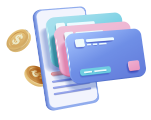
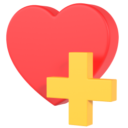
comit sabado

diff --git a/src/public/DetalleTecnico.js b/src/public/DetalleTecnico.js
@@ -14,6 +14,9 @@ import AsyncStorage from '@react-native-async-storage/async-storage';
 import styles from '../styles/styles';
 import { AntDesign } from '@expo/vector-icons'; 
 import baseColor from '../private/api/baseColor';
+import eliminarFavT from '../helper/favoritos/eliminarFavT';
+import checkFavT from '../helper/favoritos/checkFavT';
+import agregarFavT from '../helper/favoritos/agregarFavT';
 
 const DetalleTecnico = (props) => {
   const navigation =useNavigation();
@@ -21,9 +24,12 @@ const DetalleTecnico = (props) => {
 
   const [ tecnico, setTecnico ] = useState([]);
   const [ loading, setLoading ] = useState(true);
-  const [ idUser, setIdUser ] = useState(null)
+  const [ idUser, setIdUser ] = useState(null);
 
   const idTecnico = props.route.params.idTecnico;
+  const idCarrito = props.route.params.idC;
+  const idU = props.route.params.idUser;
+
   console.log("id Tecnico UWU: ", idTecnico);
   const dataTecnico = new FormData();
         dataTecnico.append("idU", idTecnico);
@@ -70,6 +76,47 @@ useEffect(() => {
   }
   fetchData();
   console.log("idUser", idUser);
+
+
+
+  const [ selected, setSelected] = useState(false);
+
+  const checked = async()=>{
+    // console.log("idAS check", idAS);
+    // console.log("idU check", idU);
+     let state = await checkFavT(idUser, idTecnico);
+     //console.log("state", state)
+     setSelected(state);
+ }
+
+  useEffect( ()=>{
+     
+     checked();
+  },[selected]);
+
+  const handleIconPress = (idT, idU) => {
+
+    if ((idUser===null)){
+            Alert.alert('Favor de iniciar sesión', `Para agregar a tus favoritos, primero inicia sesión`, [
+              { 
+                text: 'Cancelar',
+                onPress: () => console.log('Cancel Pressed'),
+                style: 'cancel',
+                cancelable: true
+              },
+              {text: 'Iniciar Sesión', onPress: () =>props.navigation.navigate("Login")},
+            ]);
+    }else{
+          if (selected===true){
+            eliminarFavT(idU, idT);
+
+            setSelected(false);
+        }else{
+          agregarFavT(idU, idT);
+            setSelected(true);
+          }
+    }
+  };
   
   
   return (
@@ -167,15 +214,17 @@ useEffect(() => {
           {/**FIN COLUMNA IZQUIERDA */}
           {/**COLUMNA DERECHA */}
           <VStack >
+
+
             {/**ACERCA DE*/}
-            <TouchableOpacity onPress={()=>onClickAddTec(tecnico.idU)}>
+            <TouchableOpacity onPress={()=>handleIconPress(tecnico.idU, idUser)}>
               <VStack >
                 <Center>
                   <Image  source={require("../img/detalleTecnico/costos.png")
                       } alt="Alternate Text"  size="md" resizeMode='contain'  />
                 </Center> 
                 <Center>
-                  <Text style={styles.Texts}>Costos de Servicios</Text>
+                  <Text style={styles.Texts}>{selected ? "Eliminar de favoritos": "Agregar a favoritos"}</Text>
                 </Center>
                 
               </VStack>

diff --git a/src/private/Favoritos.js b/src/private/Favoritos.js
@@ -6,6 +6,7 @@ import AsyncStorage from '@react-native-async-storage/async-storage';
 import URL from "./api/URL";
 import fetchPost from "./api/fetchPost";
 import FavoritoComponent from "../components/FavoritoComponent";
+import FavoritoTecnicoComponent from "../components/FavoritoTecnicoComponent";
 
 const Favoritos = (props)=>{
 
@@ -13,6 +14,7 @@ const Favoritos = (props)=>{
     const [ idU, setIdU ] = useState(null);
     const [ idC, setIdC ] = useState(null);
     const [ favoritos, setFavoritos ] = useState([]);
+    const [ tecnicos, setTecnicos ] = useState([]);
 
     async function fetchData() {
         try {
@@ -42,6 +44,22 @@ const Favoritos = (props)=>{
           setFavoritos([]);
         }
     }
+
+    const getTecnicos = async() => {
+        const dataTecnico = new FormData();
+        dataTecnico.append("idU", idU);
+        const urlt = `${BASE_URL}api/favoritos/get_tecnicos`
+        const options = {
+          method:'POST',
+          body: dataTecnico
+        };
+        const responseFavTecnico = await fetchPost(urlt, options);
+        if (responseFavTecnico !== null){
+          setTecnicos(responseFavTecnico.data);
+        }else{
+          setTecnicos([]);
+        }
+    }
   
 
 
@@ -51,6 +69,8 @@ const Favoritos = (props)=>{
        // console.log("id carrito Favorito: ", idC);
        // console.log("idUser fav: ", idU);
         getServicios();
+        getTecnicos();
+       // console.log("fav tec:", tecnicos)
         //console.log("favoritos", favoritos)
       }, [idU, idC, favoritos]);
 
@@ -61,8 +81,10 @@ const Favoritos = (props)=>{
     <NativeBaseProvider>
         <View flex={1} bg={baseColor.bg}>
             <Text bold  style={styles.texto} textAlign="center"  fontSize={24} py={3}>Favoritos</Text>
+
+            { favoritos.length > 0 || tecnicos.length > 0 ? 
             <ScrollView mx={6} my={4} borderWidth={1} borderRadius={10} shadow={6} bg={"white"} borderColor={"#fcfcfc"}>
-                <Text bold textAlign={"center"} fontSize={16} mt={20}>Por el momento no tienes favoritos</Text>
+                
 
                 { favoritos.map( (impreso, index)=>{
             return(
@@ -77,7 +99,25 @@ const Favoritos = (props)=>{
           } )
 
           }
+
+
+            { tecnicos.map( (tecnico, index)=>{
+                return(
+                <FavoritoTecnicoComponent
+                key={index} nombre={tecnico.nombreU + " " + tecnico.apellidos} 
+                image_url={tecnico.image_url}
+                idT={tecnico.idT}
+                idU={idU}
+                idC={idC}/>
+                ) 
+            } )
+
+            }
             </ScrollView>
+
+            :
+            <Text bold textAlign={"center"} fontSize={16} mt={20}>Por el momento no tienes favoritos</Text>
+             }
         </View>
 
     </NativeBaseProvider>

diff --git a/src/components/FavoritoTecnicoComponent.js b/src/components/FavoritoTecnicoComponent.js
@@ -1,0 +1,85 @@
+import { Box, Pressable, Icon, Center, Image, Text, Stack} from "native-base";
+import {  AntDesign } from '@expo/vector-icons'; 
+import { useNavigation } from '@react-navigation/native';
+import { Alert } from "react-native";
+import URL from "../private/api/URL";
+import baseColor from "../private/api/baseColor";
+import eliminarFavT from "../helper/favoritos/eliminarFavT";
+import styles from "../styles/styles";
+
+const FavoritoTecnicoComponent = (props)=>{
+    const BASE_URL= URL.BASE_URL;
+    const navigation =useNavigation();
+
+    const { nombre,  image_url,  idT , idU, idC} =props;
+
+
+
+    const detalleTecnico= (idT, idC, idU) => {
+        navigation.navigate("DetalleTecnico", {
+        idTecnico: idT,
+        idC: idC,
+        idUser: idU
+          
+          
+        }); 
+      };
+
+
+
+
+
+     const eliminarFavorito = ()=>{
+        Alert.alert('Borrar Favorito', `¿Deseas borrar ${nombre} de favoritos?`, [
+            {
+              text: 'Cancelar',
+              onPress: () => console.log('Cancel Pressed'),
+              style: 'cancel',
+            },
+            {text: 'Confirmar', onPress: () => eliminarFavT(idU, idT)},
+          ],
+          {cancelable: true}
+          );
+     }
+
+    return(
+        <>
+      <Box h={32} w={"90%"} mx={"5%"}  my={2} shadow={6} bg="white" borderRadius={20} >
+            <Stack direction={"row"}> 
+                <Pressable onPress={()=>eliminarFavorito(idU, idT)}>
+                  <Icon as={AntDesign} name="heart" size={6} ml={3}  mt={3} color={"#ff0000"} />
+                </Pressable>
+               
+                
+                <Image source={{
+                uri: `${image_url}`
+                }} alt="Alternate Text" size="lg" mt={4} mx={3} resizeMode="contain" borderRadius={10} />
+                <Stack direction={"column"}   flex={1} mt={2}>
+                    <Text  pt={1} bold fontSize={"md"} style={styles.texto}> {nombre} </Text>
+                    
+                    <Box my={1} >
+                 
+                     <Pressable bg={baseColor.color} borderRadius={10} w={24} h={9}
+                     onPress={()=>detalleTecnico(idT, idC, idU)} >
+                        <Center >
+                            <Stack direction={"row"} mt={1}>
+                                
+                                <Text bold color={"white"} mt={1}>Ver más</Text>
+                            </Stack>
+                        </Center>
+                    </Pressable>
+                   
+                    </Box>
+
+                </Stack>
+
+
+            </Stack>
+
+        </Box>
+        
+        </>
+    );
+};
+
+export default FavoritoTecnicoComponent;

diff --git a/src/helper/favoritos/eliminarFavT.js b/src/helper/favoritos/eliminarFavT.js
@@ -1,0 +1,22 @@
+import URL from "../../private/api/URL";
+import fetchPost from "../../private/api/fetchPost";
+
+const eliminarFavT = async(idU, idT)=>{
+    const BASE_URL= URL.BASE_URL;
+        
+    const dataFav = new FormData();
+    dataFav.append("idU", idU);
+    dataFav.append("idT", idT);
+    const url = `${BASE_URL}api/favoritos/delete_tecnico`
+    const options = {
+      method:'POST',
+      body: dataFav
+    };
+    const res = await fetchPost(url, options);
+    console.log("delete fav:", res);
+    return res;
+   // 
+    
+    
+  }
+  export default eliminarFavT;

diff --git a/src/helper/favoritos/agregarFavT.js b/src/helper/favoritos/agregarFavT.js
@@ -1,0 +1,22 @@
+import URL from "../../private/api/URL";
+import fetchPost from "../../private/api/fetchPost";
+
+const agregarFavT = async(idU, idT)=>{
+    const BASE_URL= URL.BASE_URL;
+        
+    const dataFav = new FormData();
+    dataFav.append("idU", idU);
+    dataFav.append("idT", idT);
+    const url = `${BASE_URL}api/favoritos/add_tecnico`
+    const options = {
+      method:'POST',
+      body: dataFav
+    };
+    const res = await fetchPost(url, options);
+    console.log("agrega T Fav", res);
+    return res;
+   // 
+    
+    
+  }
+  export default agregarFavT;

diff --git a/src/helper/favoritos/checkFavT.js b/src/helper/favoritos/checkFavT.js
@@ -1,0 +1,22 @@
+import URL from "../../private/api/URL";
+import fetchPost from "../../private/api/fetchPost";
+
+const checkFavT = async(idU, idT)=>{
+    const BASE_URL= URL.BASE_URL;
+        
+    const dataFav = new FormData();
+    dataFav.append("idU", idU);
+    dataFav.append("idT", idT);
+    const url = `${BASE_URL}api/favoritos/check_tecnico`
+    const options = {
+      method:'POST',
+      body: dataFav
+    };
+    const res = await fetchPost(url, options);
+    console.log("check:", res);
+    return res;
+   // 
+    
+    
+  }
+  export default checkFavT;
